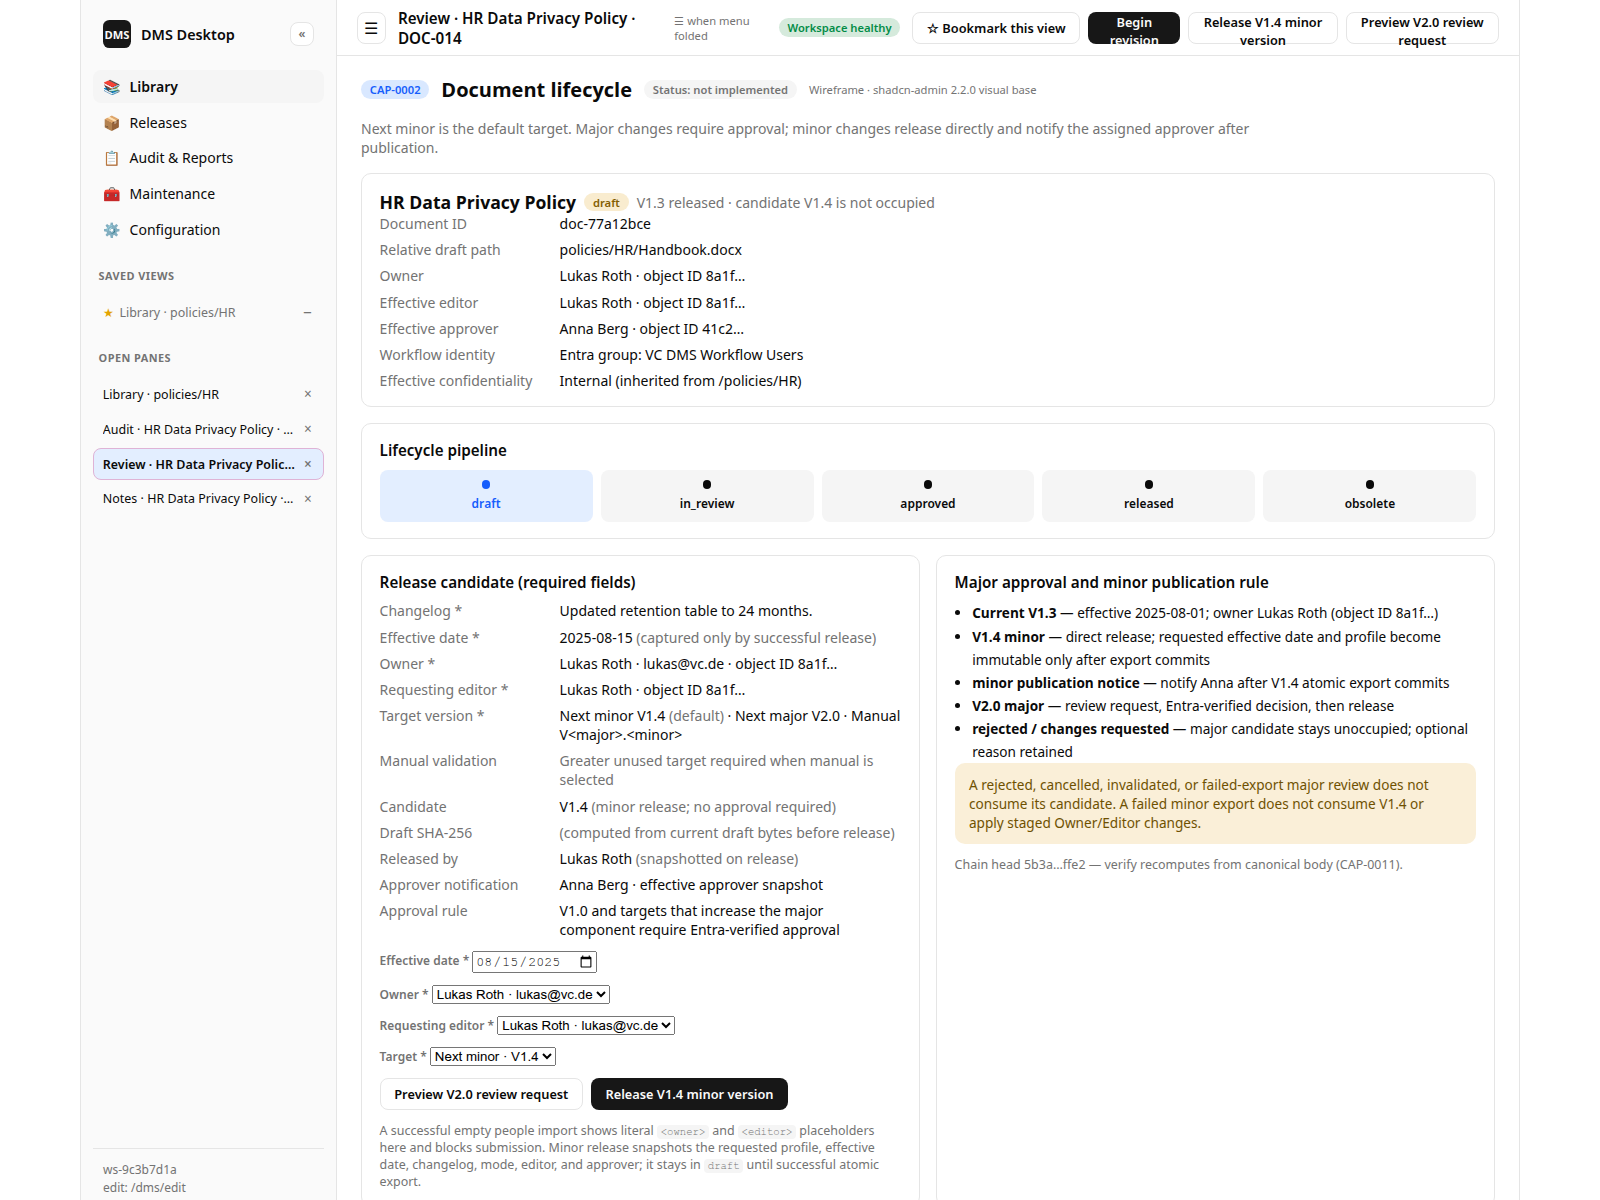
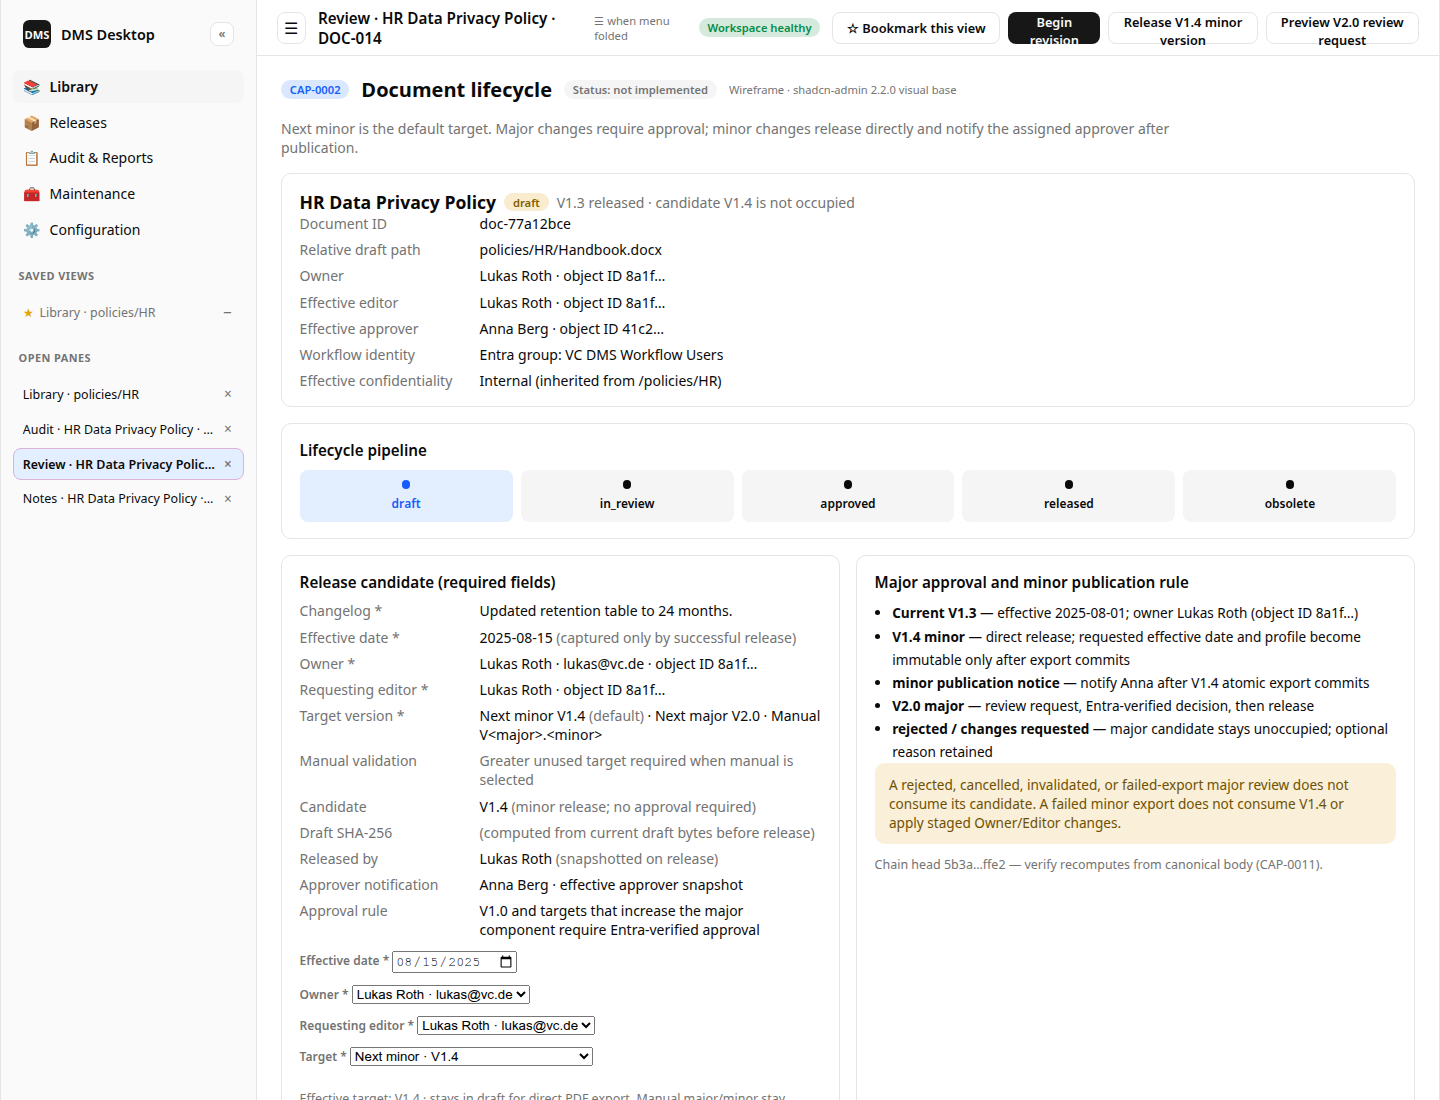
docs(wireframes): refresh candidate form screens
Regenerate CAP-0002 and CAP-0015 HTML/PNG so Revision cycle
matches Create release candidate, target preview, and the
single workflow-evidence disclosure.

diff --git a/docs/product/wireframes/html/CAP-0015-document-control-data.html b/docs/product/wireframes/html/CAP-0015-document-control-data.html
@@ -374,15 +374,20 @@ tr:last-child td { border-bottom: 0; }
     <details class="selection-section" open>
       <summary><span class="selection-section-title">Revision cycle</span></summary>
       <div class="selection-section-body stack">
-        <p class="muted" style="font-size:0.85rem;margin:0">The current released PDF remains available while this newer draft is in review. After release, <strong>Begin revision</strong> returns the document to <code>draft</code>; PDFs and history remain preserved.</p>
+        <p class="muted" style="font-size:0.85rem;margin:0">Create a release candidate here in the workspace (not an external upload). The current released PDF remains available while a newer draft is in progress. After release, <strong>Begin revision</strong> returns the document to <code>draft</code>; PDFs and history remain preserved.</p>
+        <strong>Create release candidate</strong>
         <label class="label">Effective date * <input type="date" value="2025-08-15" required></label>
-        <label class="label">Target * <select><option value="next_minor" selected>Next minor · V1.4</option><option value="next_major">Next major · V2.0</option><option value="manual">Manual</option></select></label>
+        <label class="label">Target * <select><option value="next_minor" selected>Next minor · V1.4</option><option value="next_major">Next major · V2.0 (approval required)</option><option value="manual">Manual target</option></select></label>
+        <p class="hint">Effective target: V1.4 · stays in draft for direct PDF export. Manual major/minor stay disabled until Manual target is selected.</p>
         <label class="label">Requesting editor * <select><option value="8a1f">Lukas Roth · lukas@vc.de</option></select></label>
-        <button class="btn">Submit candidate</button>
+        <button class="btn">Create release candidate</button>
         <button class="btn outline">Begin revision</button>
         <button class="btn outline">Cancel review</button>
         <button class="btn danger">Mark obsolete</button>
-        <button class="btn outline">View workflow evidence</button>
+        <details open>
+          <summary>Canonical workflow evidence · valid</summary>
+          <p class="hint" style="margin:0.5rem 0 0">Hash-chained lifecycle events (newest first). Fold this disclosure to hide evidence.</p>
+        </details>
         <p class="hint">Document-control-data changes while a review is open invalidate that review. Copy permalink uses workspace + document IDs only.</p>
       </div>
     </details>

diff --git a/docs/product/wireframes/html/CAP-0002-document-lifecycle.html b/docs/product/wireframes/html/CAP-0002-document-lifecycle.html
@@ -278,8 +278,9 @@ tr:last-child td { border-bottom: 0; }
             <label class="label">Effective date * <input type="date" value="2025-08-15" required></label>
             <label class="label">Owner * <select required><option value="8a1f">Lukas Roth · lukas@vc.de</option><option value="41c2">Anna Berg · anna@vc.de</option></select></label>
             <label class="label">Requesting editor * <select required><option value="8a1f">Lukas Roth · lukas@vc.de</option></select></label>
-            <label class="label">Target * <select required><option value="next_minor" selected>Next minor · V1.4</option><option value="next_major">Next major · V2.0</option><option value="manual">Manual</option></select></label>
-            <div class="row gap-2" style="flex-wrap:wrap"><button class="btn outline">Preview V2.0 review request</button><button class="btn">Release V1.4 minor version</button></div>
+            <label class="label">Target * <select required><option value="next_minor" selected>Next minor · V1.4</option><option value="next_major">Next major · V2.0 (approval required)</option><option value="manual">Manual target</option></select></label>
+            <p class="hint">Effective target: V1.4 · stays in draft for direct PDF export. Manual major/minor stay disabled until Manual target is selected.</p>
+            <div class="row gap-2" style="flex-wrap:wrap"><button class="btn outline">Preview V2.0 review request</button><button class="btn">Create release candidate · V1.4</button></div>
           </form>
           <p class="hint">A successful empty people import shows literal <code>&lt;owner&gt;</code> and <code>&lt;editor&gt;</code> placeholders here and blocks submission. Minor release snapshots the requested profile, effective date, changelog, mode, editor, and approver; it stays in <code>draft</code> until successful atomic export.</p>
         </section>
